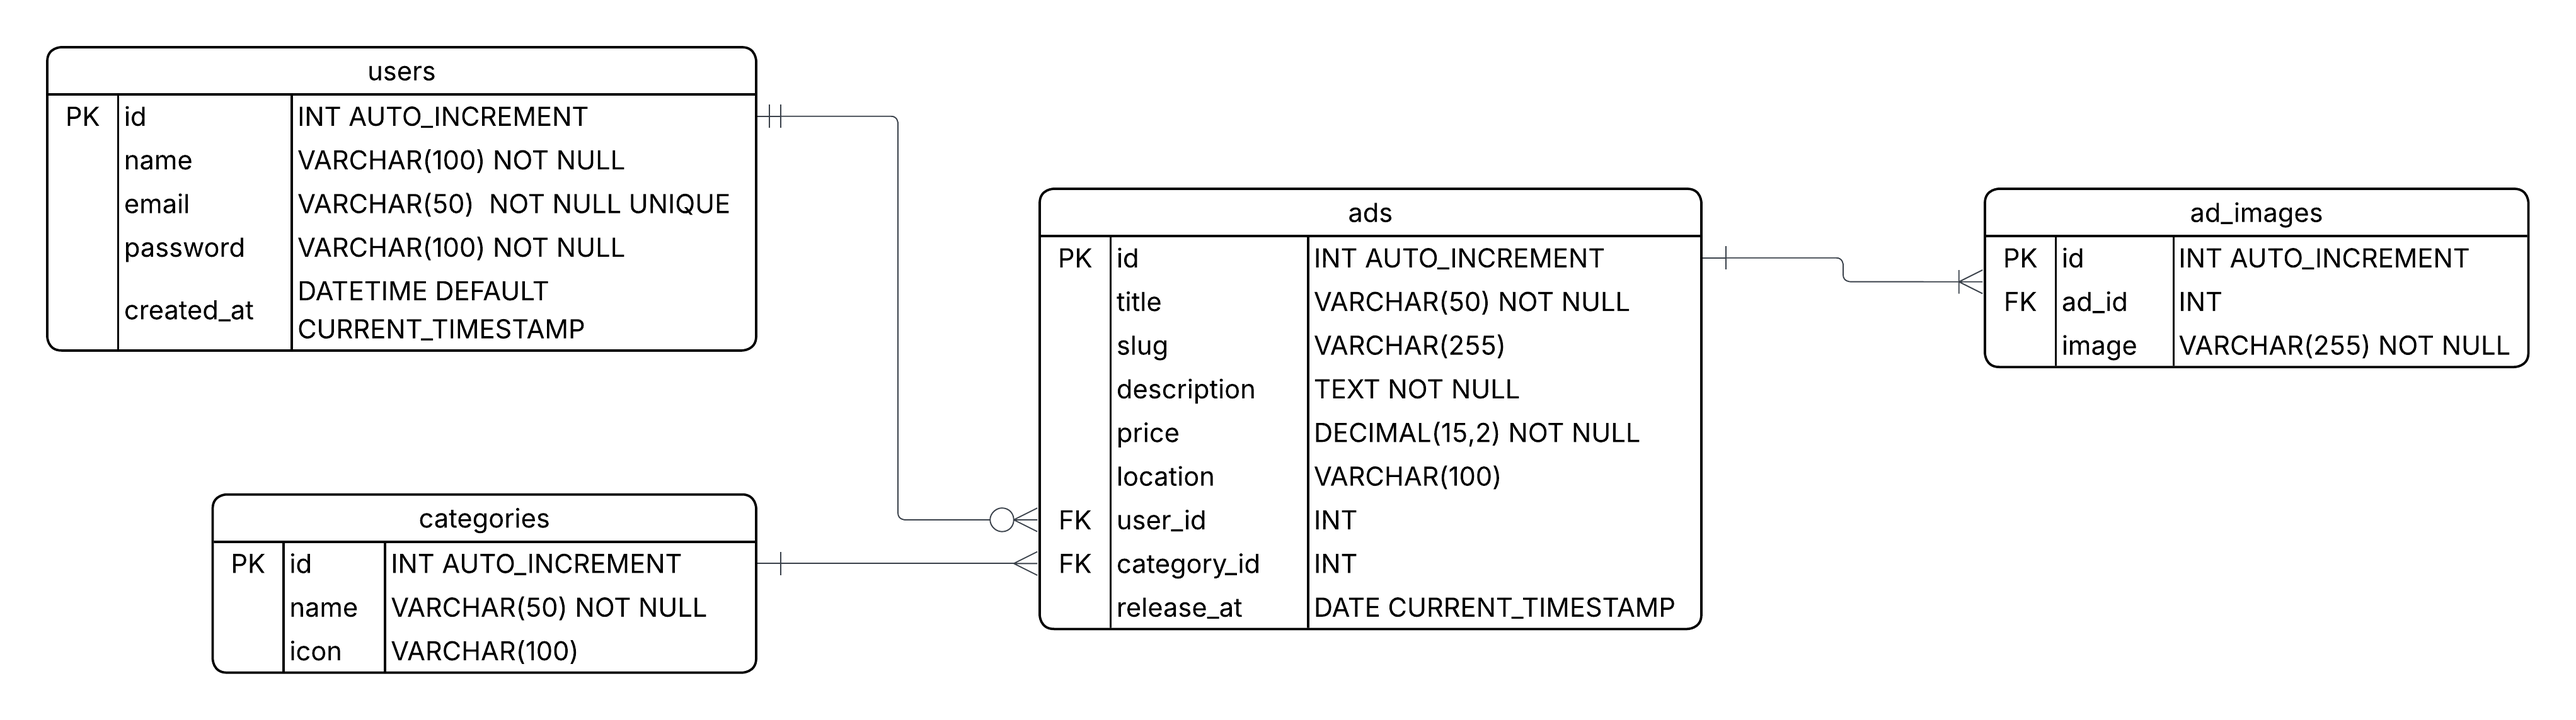
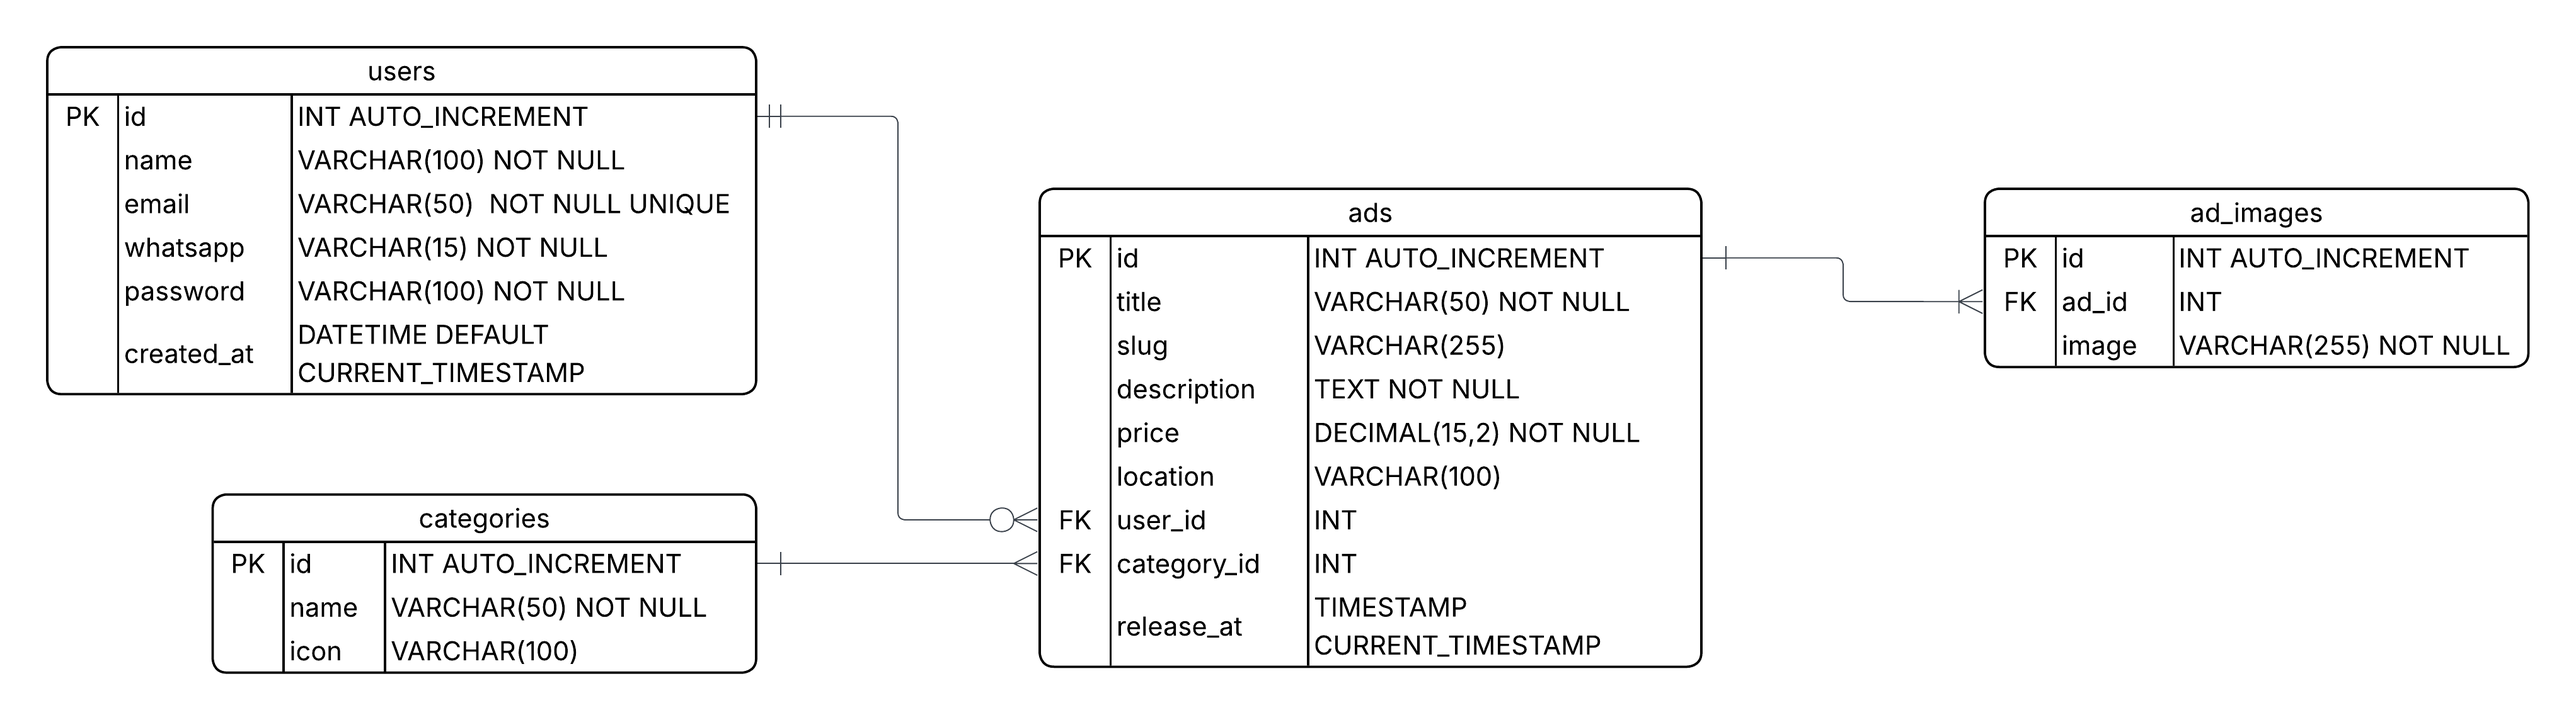
feat: Update database configuration and enhance ad detail page with WhatsApp contact option

diff --git a/detail.php b/detail.php
@@ -41,7 +41,7 @@ if ($adId <= 0) {
 // Fetch ad detail
 $ad = null;
 try {
-    $stmt = $pdo->prepare("SELECT a.*, c.name AS category_name, u.name AS seller_name, u.created_at AS seller_created
+    $stmt = $pdo->prepare("SELECT a.*, c.name AS category_name, u.name AS seller_name, u.created_at AS seller_created, u.whatsapp AS seller_whatsapp
                            FROM ads a
                            LEFT JOIN categories c ON a.category_id = c.id
                            LEFT JOIN users u ON a.user_id = u.id
@@ -78,6 +78,16 @@ $sellerName = $ad['seller_name'] ?: 'Pengguna';
 $sellerJoined = $ad['seller_created'] ? date('M Y', strtotime($ad['seller_created'])) : '-';
 $categoryLink = $ad['category_id'] ? 'landingPage.php?category=' . urlencode($ad['category_id']) : 'landingPage.php';
 $idLabel = '#AD' . str_pad($ad['id'], 5, '0', STR_PAD_LEFT);
+
+$rawWhatsapp = $ad['seller_whatsapp'] ?? '';
+$sanitizedWhatsapp = preg_replace('/\D+/', '', $rawWhatsapp);
+if (strpos($sanitizedWhatsapp, '0') === 0) {
+    $sanitizedWhatsapp = '62' . substr($sanitizedWhatsapp, 1);
+}
+$waMessage = 'Halo, saya tertarik dengan iklan "' . ($ad['title'] ?? '') . '"';
+$whatsappUrl = !empty($sanitizedWhatsapp)
+    ? 'https://wa.me/' . $sanitizedWhatsapp . '?text=' . urlencode($waMessage)
+    : null;
 
 // Fetch related ads (same category, exclude current)
 $relatedAds = [];
@@ -312,12 +322,15 @@ if (!empty($ad['category_id'])) {
 
                             <!-- CONTACT BUTTONS -->
                             <div class="mb-3">
-                                <button class="btn w-100 mb-2 py-3" style="background-color: var(--secondary-color); color: var(--primary-color); font-weight: bold; font-size: 14px; border: none;">
-                                    <i class="fas fa-phone me-2"></i>Hubungi Penjual
-                                </button>
-                                <button class="btn btn-outline-dark w-100 py-3" style="font-weight: bold; font-size: 14px;">
-                                    <i class="fas fa-comment-dots me-2"></i>Chat
-                                </button>
+                                <?php if ($whatsappUrl): ?>
+                                    <a href="<?= htmlspecialchars($whatsappUrl) ?>" target="_blank" rel="noopener noreferrer" class="btn w-100 mb-2 py-3" style="background-color: var(--secondary-color); color: var(--primary-color); font-weight: bold; font-size: 14px; border: none;">
+                                        <i class="fab fa-whatsapp me-2"></i>Hubungi Penjual
+                                    </a>
+                                <?php else: ?>
+                                    <button type="button" class="btn w-100 mb-2 py-3 disabled" style="background-color: var(--secondary-color); color: var(--primary-color); font-weight: bold; font-size: 14px; border: none;" title="Nomor WhatsApp penjual tidak tersedia">
+                                        <i class="fab fa-whatsapp me-2"></i>Hubungi Penjual
+                                    </button>
+                                <?php endif; ?>
                             </div>
 
                             <div class="alert alert-warning small mb-0" role="alert" style="font-size: 12px;">
@@ -480,10 +493,6 @@ if (!empty($ad['category_id'])) {
             }
         }
 
-        // Phone number reveal (example)
-        document.querySelector('.btn[style*="background-color: var(--secondary-color)"]').addEventListener('click', function() {
-            alert('Nomor Telepon: 0812-3456-7890\n\nHubungi penjual untuk informasi lebih lanjut.');
-        });
     </script>
 </body>
 </html>

diff --git a/config.php b/config.php
@@ -5,7 +5,8 @@
  */
 
 // Database configuration
-define('DB_HOST', 'localhost');
+define('DB_HOST', '127.0.0.1');
+define('DB_PORT', '3306');
 define('DB_NAME', 'olx_clone');
 define('DB_USER', 'root');
 define('DB_PASS', '');
@@ -21,7 +22,7 @@ $options = [
 
 // Create PDO instance
 try {
-    $dsn = "mysql:host=" . DB_HOST . ";dbname=" . DB_NAME . ";charset=" . DB_CHARSET;
+    $dsn = "mysql:host=" . DB_HOST . ";port=" . DB_PORT . ";dbname=" . DB_NAME . ";charset=" . DB_CHARSET;
     $pdo = new PDO($dsn, DB_USER, DB_PASS, $options);
 } catch (PDOException $e) {
     // Log error (in production, log to file instead of displaying)
